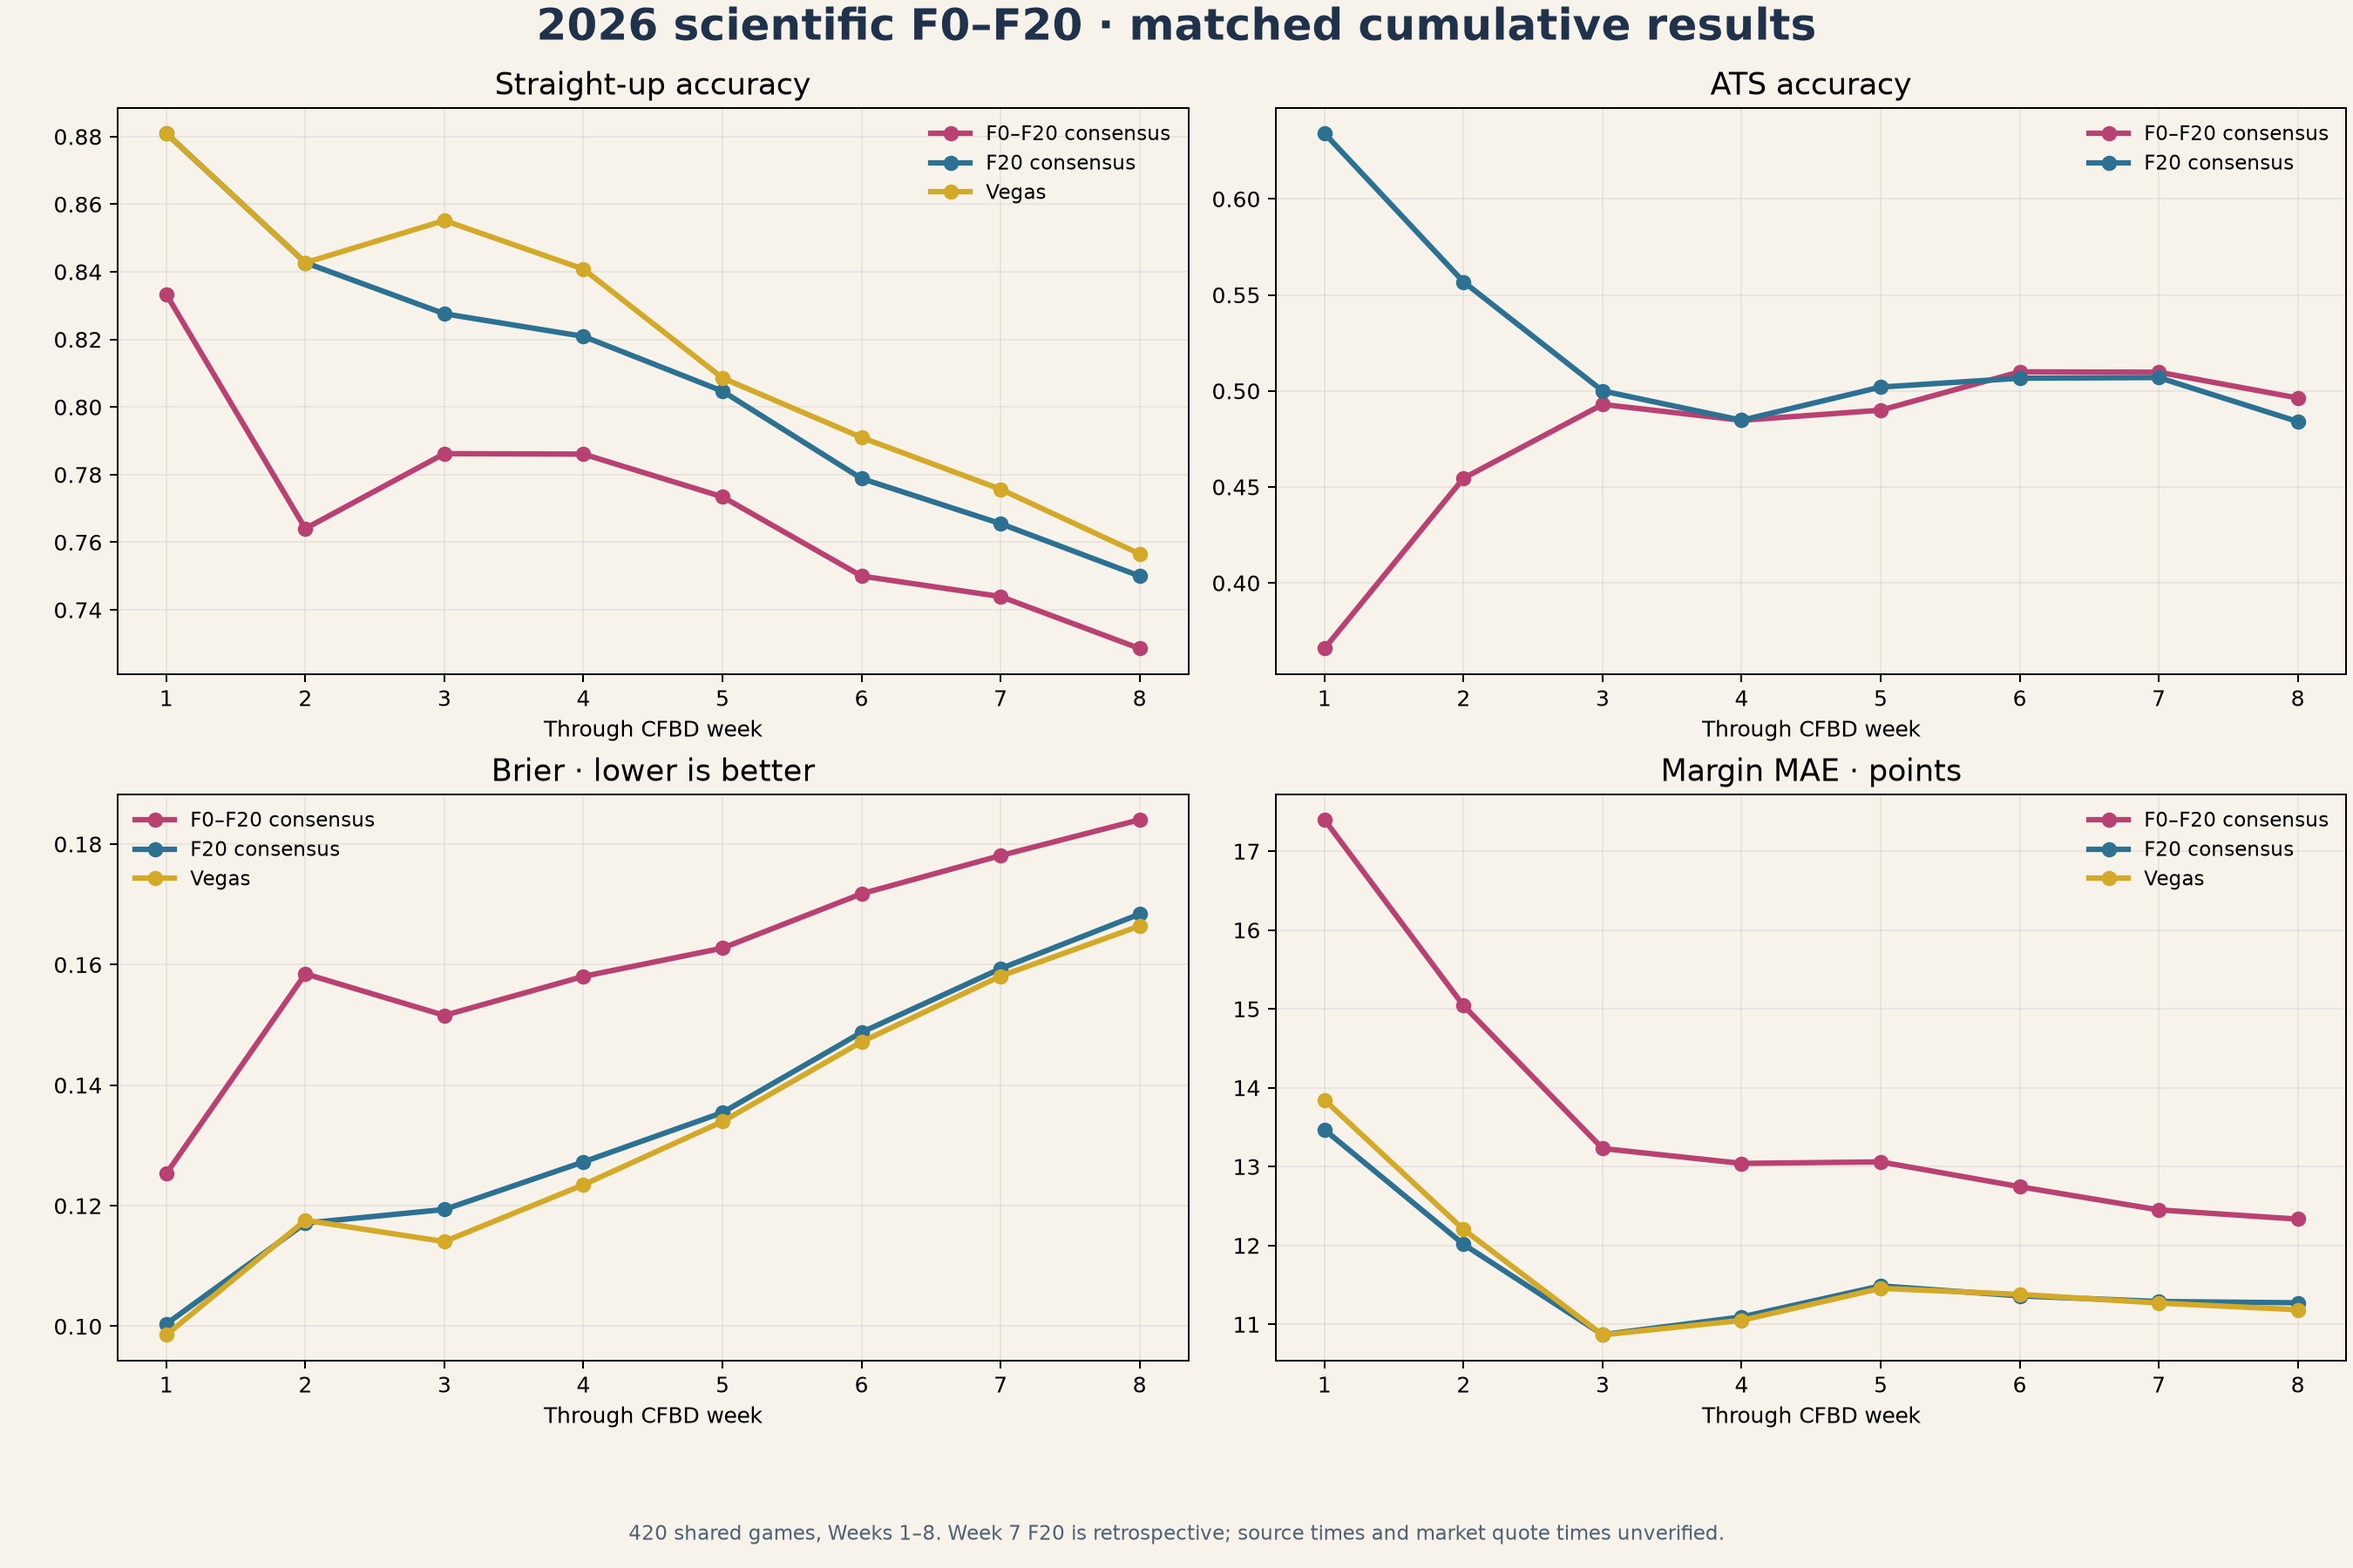
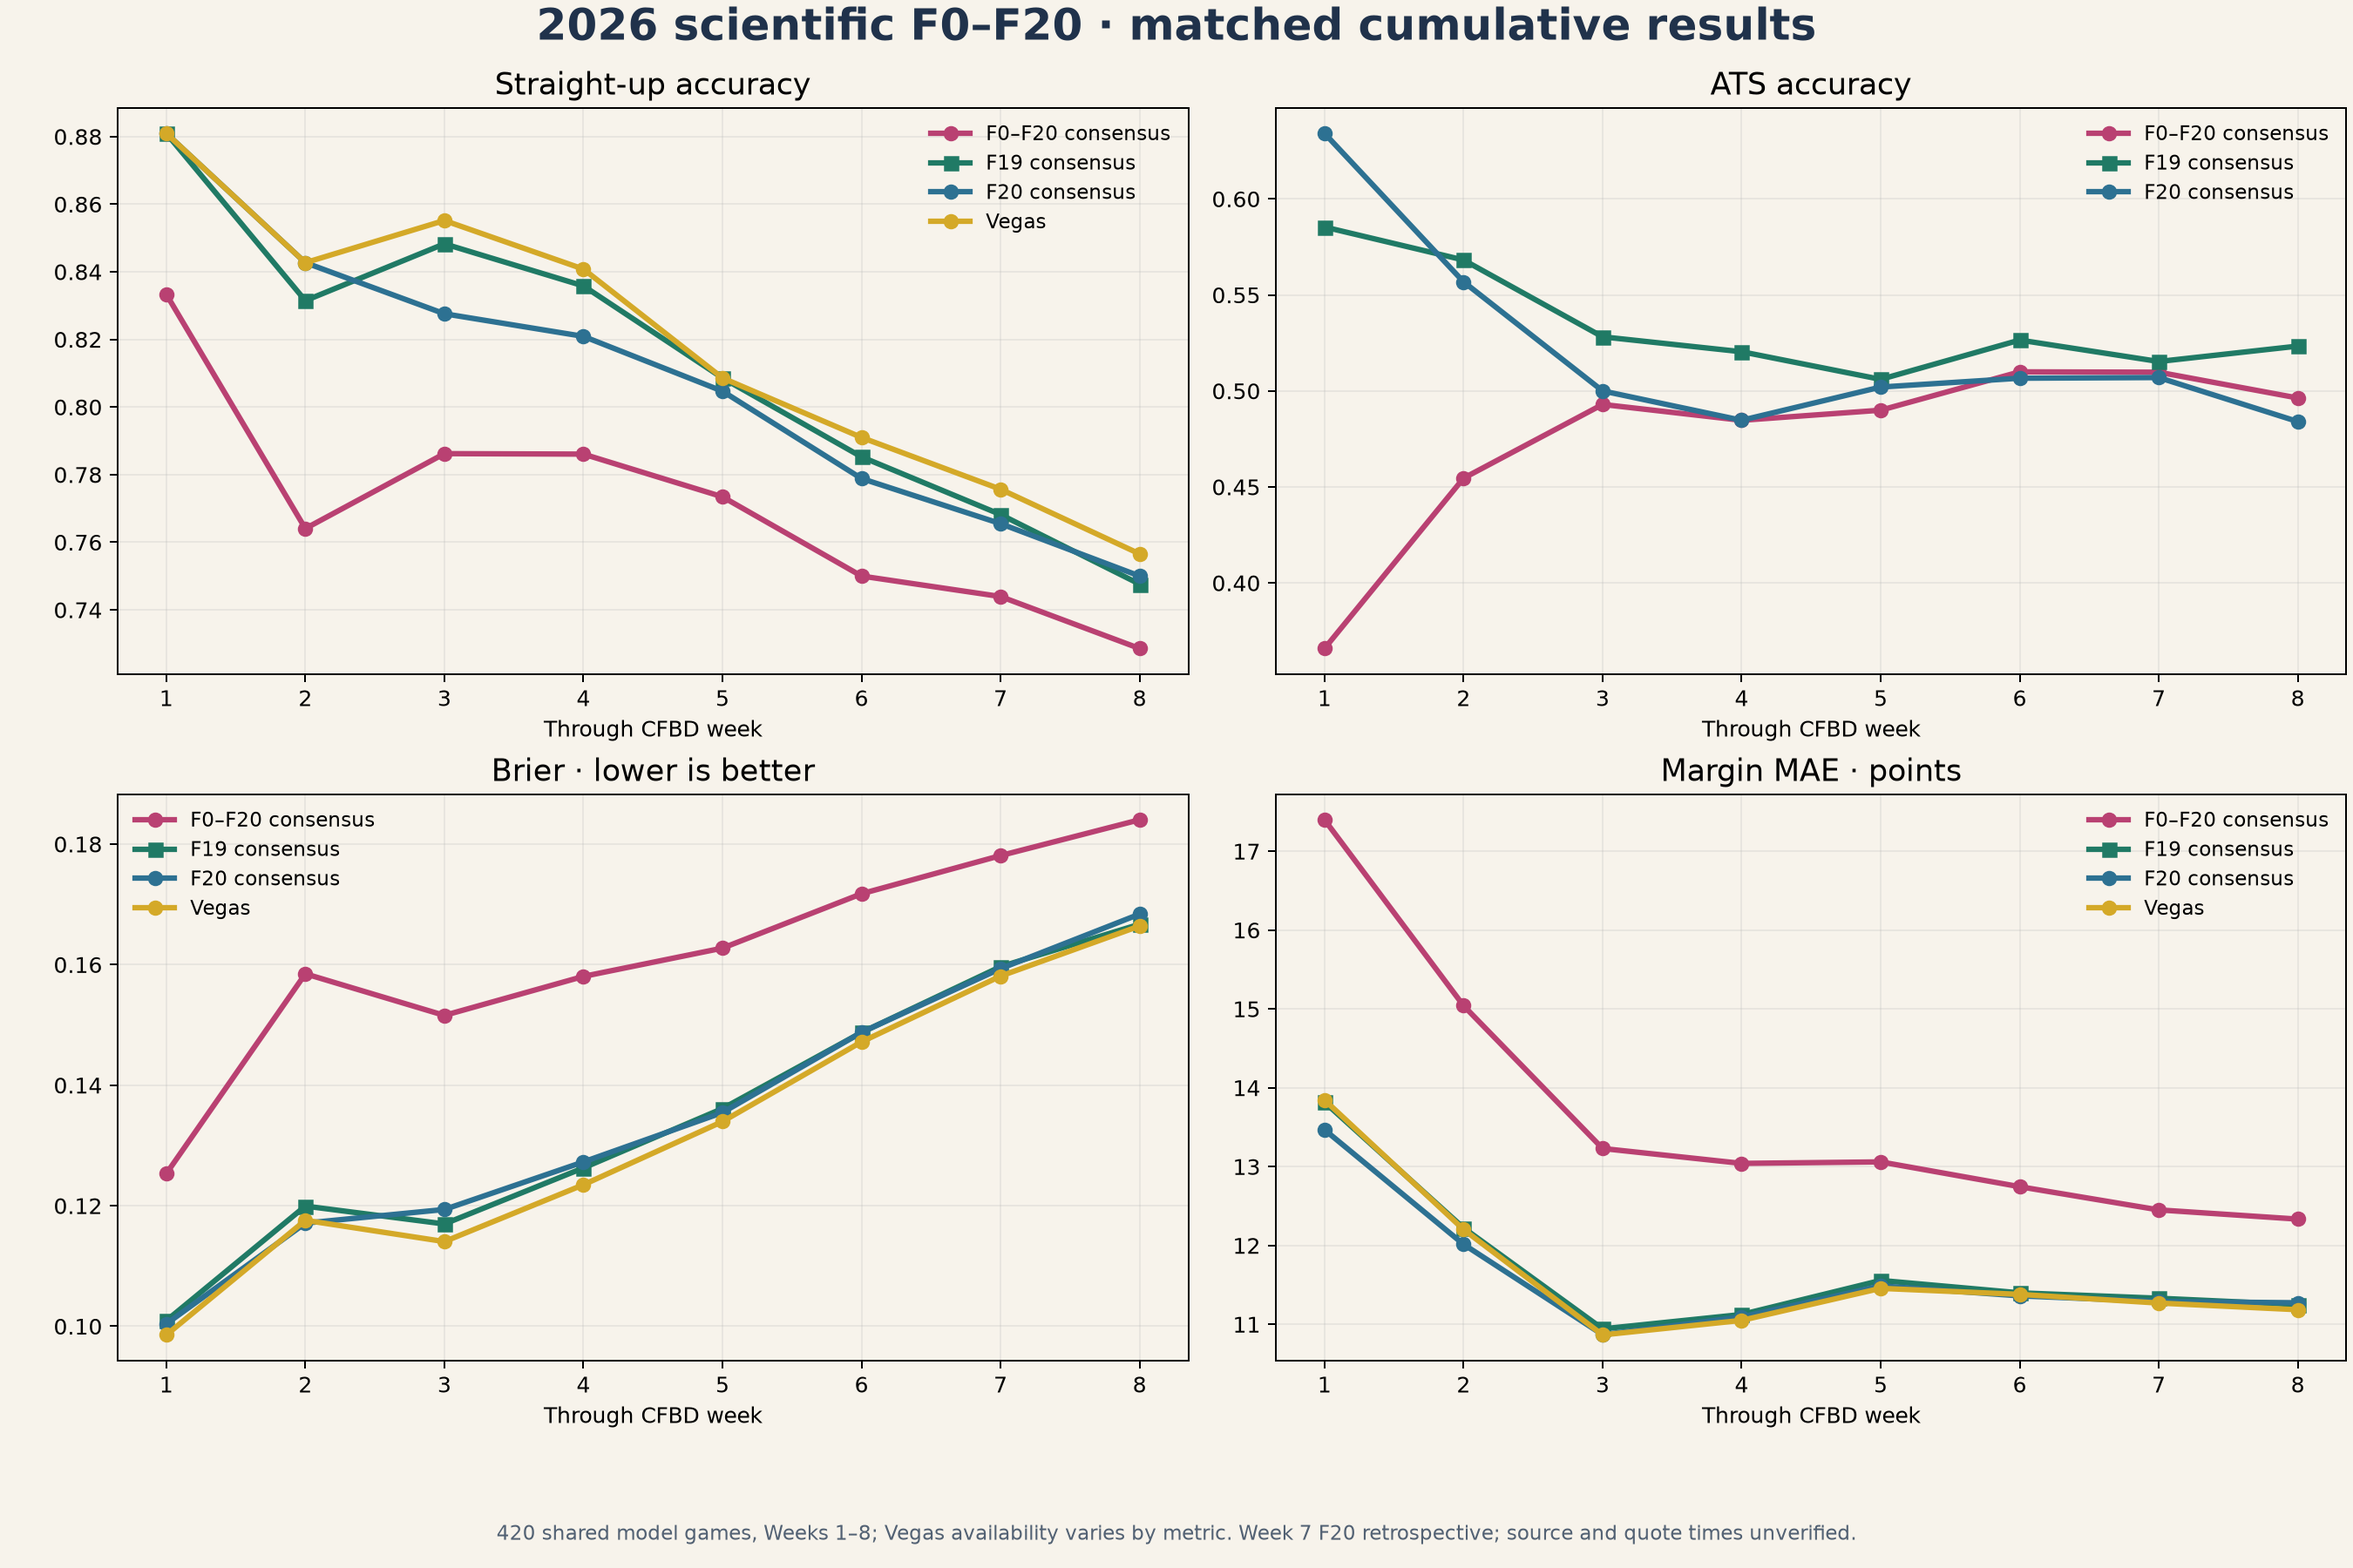
Add F19 consensus to scientific cumulative figure

diff --git a/scripts/publication/backfill_2026_week07_f20.py b/scripts/publication/backfill_2026_week07_f20.py
@@ -46,7 +46,7 @@ ALIASES = {
     ("Coastal Carolina", "Appalachian St."): (401869844, "Coastal Carolina", "App State", 32, 35),
     ("Oregon St.", "Washington St."): (401860903, "Oregon State", "Washington State", 48, 30),
 }
-COLORS = {"roster_consensus": "#b94172", "fingerprint_consensus": "#2d7192",
+COLORS = {"roster_consensus": "#b94172", "F19": "#207a65", "F20": "#2d7192",
           "vegas_reference": "#d4a928"}
 
 
@@ -162,23 +162,28 @@ def cumulative_cards(predictions: pd.DataFrame, games: pd.DataFrame, matched_ids
 
 def render_cumulative(frame: pd.DataFrame, path: Path) -> None:
     selections = (
-        ("roster_consensus", "F0–F20 consensus"),
-        ("fingerprint_consensus", "F20 consensus"),
-        ("vegas_reference", "Vegas"),
+        ("roster_consensus", "F0–F20 consensus", None),
+        ("fingerprint_consensus", "F19 consensus", "F19"),
+        ("fingerprint_consensus", "F20 consensus", "F20"),
+        ("vegas_reference", "Vegas", None),
     )
     fig, axes = plt.subplots(2, 2, figsize=(15, 10), facecolor="#f7f3eb", constrained_layout=True)
     for ax, (metric, label) in zip(axes.flat, [
         ("su_accuracy", "Straight-up accuracy"), ("ats_accuracy", "ATS accuracy"),
         ("brier", "Brier · lower is better"), ("margin_mae", "Margin MAE · points")]):
         ax.set_facecolor("#f7f3eb")
-        for kind, name in selections:
+        for kind, name, fingerprint in selections:
             if kind == "vegas_reference" and metric == "ats_accuracy":
                 continue
             series = frame.loc[frame.row_type.eq(kind)]
-            if kind == "fingerprint_consensus":
-                series = series.loc[series.fingerprint.eq("F20")]
-            ax.plot(series.through_week, series[metric], marker="o", lw=2.5,
-                    color=COLORS[kind], label=name)
+            if fingerprint is not None:
+                series = series.loc[series.fingerprint.eq(fingerprint)]
+            series = series.sort_values("through_week")
+            if len(series) != 8 or not series.through_week.eq(range(1, 9)).all():
+                raise ValueError(f"Missing cumulative values for {name}")
+            ax.plot(series.through_week, series[metric],
+                    marker="s" if fingerprint == "F19" else "o", lw=2.5,
+                    color=COLORS[fingerprint or kind], label=name)
         ax.set_title(label, fontsize=14)
         ax.set_xticks(range(1, 9))
         ax.set_xlabel("Through CFBD week")
@@ -187,7 +192,7 @@ def render_cumulative(frame: pd.DataFrame, path: Path) -> None:
     fig.suptitle("2026 scientific F0–F20 · matched cumulative results", fontsize=20,
                  weight="bold", color="#20324b")
     fig.get_layout_engine().set(rect=(.02, .085, .98, .91))
-    fig.text(.5, .018, "420 shared games, Weeks 1–8. Week 7 F20 is retrospective; source times and market quote times unverified.",
+    fig.text(.5, .018, "420 shared model games, Weeks 1–8; Vegas availability varies by metric. Week 7 F20 retrospective; source and quote times unverified.",
              ha="center", fontsize=9, color="#526173")
     fig.savefig(path, dpi=180, facecolor=fig.get_facecolor())
     plt.close(fig)
@@ -299,7 +304,7 @@ The six frozen F20 M1–M5/M10 probability and margin models were applied to tho
 
 Each scorecard CSV has 155 rows: 126 model cells, 21 fingerprint consensuses, six architecture consensuses, one full-roster consensus, and one Vegas reference. The 59-game Week 7 table has all 126 cells. Through Week 8, the 441-game available-data union contains 420 games shared by all 126 cells, 13 F0–F19-only games, and eight F20-only games. F20 has 428 games; F0–F19 have 433 each. The 412-game table additionally requires a saved Vegas probability for every game. ATS percentages exclude pushes and exact no-picks. Vegas has no ATS record against its own line.
 
-`cumulative_matched_420.csv` and its four-metric PNG show the fully matched cumulative cohort through each of Weeks 1–8. The 3D PNG and GIF show one final cumulative SU/ATS/Brier marker per F×M cell on those same 420 games. The earlier 353/361-game scorecards are preserved and still exclude Week 7 F20.
+`cumulative_matched_420.csv` and its four-metric PNG show the fully matched cumulative cohort through each of Weeks 1–8, including the F19 and F20 fingerprint consensuses. The 3D PNG and GIF show one final cumulative SU/ATS/Brier marker per F×M cell on those same 420 games. The earlier 353/361-game scorecards are preserved and still exclude Week 7 F20.
 
 `manifest.json` records source and output hashes, alias checks, and the source-timing limitations. Game-level predictions and raw provider data remain private.
 """

diff --git a/publication/2026/week_07/post_game/retrospective_replay/scientific/expanded_f0_f20/README.md b/publication/2026/week_07/post_game/retrospective_replay/scientific/expanded_f0_f20/README.md
@@ -6,6 +6,6 @@ The six frozen F20 M1–M5/M10 probability and margin models were applied to tho
 
 Each scorecard CSV has 155 rows: 126 model cells, 21 fingerprint consensuses, six architecture consensuses, one full-roster consensus, and one Vegas reference. The 59-game Week 7 table has all 126 cells. Through Week 8, the 441-game available-data union contains 420 games shared by all 126 cells, 13 F0–F19-only games, and eight F20-only games. F20 has 428 games; F0–F19 have 433 each. The 412-game table additionally requires a saved Vegas probability for every game. ATS percentages exclude pushes and exact no-picks. Vegas has no ATS record against its own line.
 
-`cumulative_matched_420.csv` and its four-metric PNG show the fully matched cumulative cohort through each of Weeks 1–8. The 3D PNG and GIF show one final cumulative SU/ATS/Brier marker per F×M cell on those same 420 games. The earlier 353/361-game scorecards are preserved and still exclude Week 7 F20.
+`cumulative_matched_420.csv` and its four-metric PNG show the fully matched cumulative cohort through each of Weeks 1–8, including the F19 and F20 fingerprint consensuses. The 3D PNG and GIF show one final cumulative SU/ATS/Brier marker per F×M cell on those same 420 games. The earlier 353/361-game scorecards are preserved and still exclude Week 7 F20.
 
 `manifest.json` records source and output hashes, alias checks, and the source-timing limitations. Game-level predictions and raw provider data remain private.
